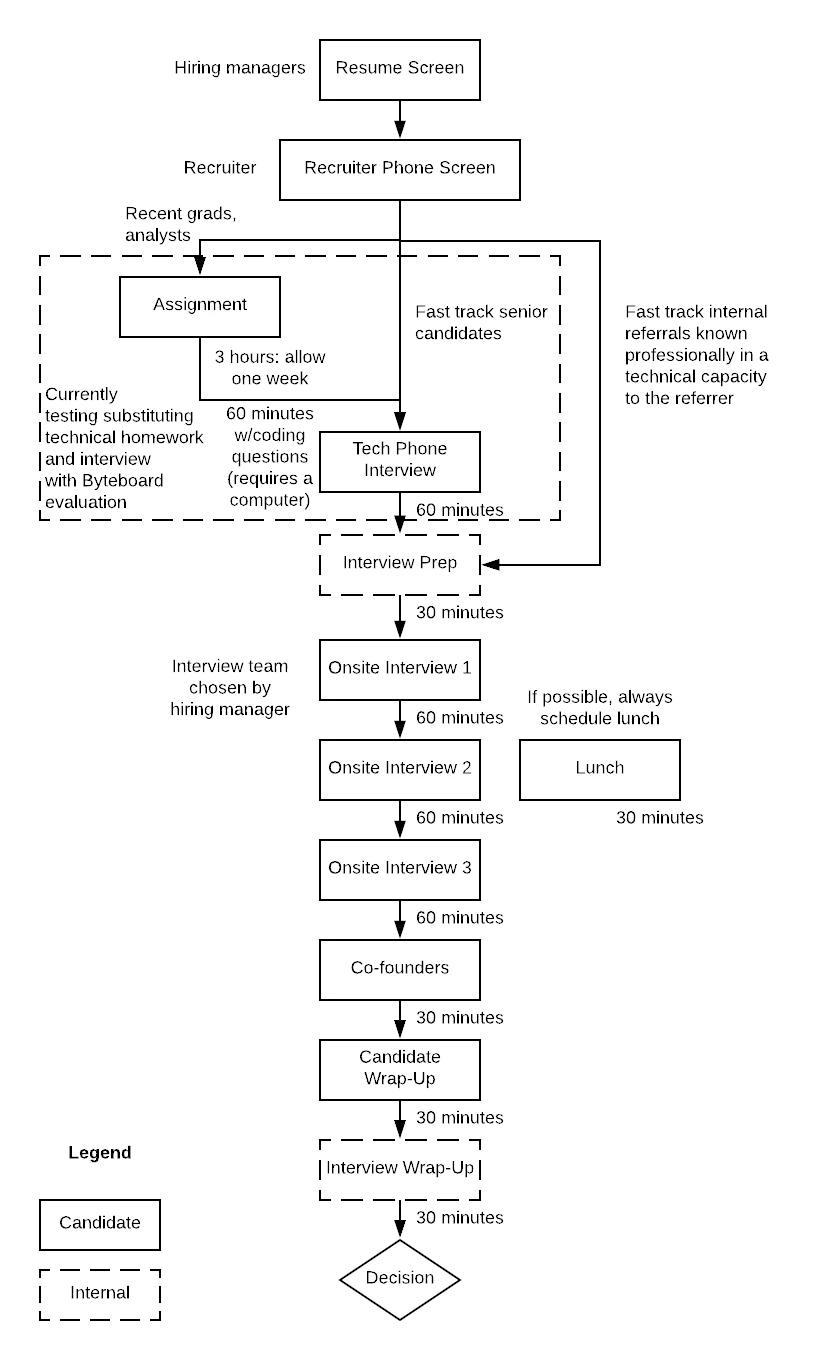
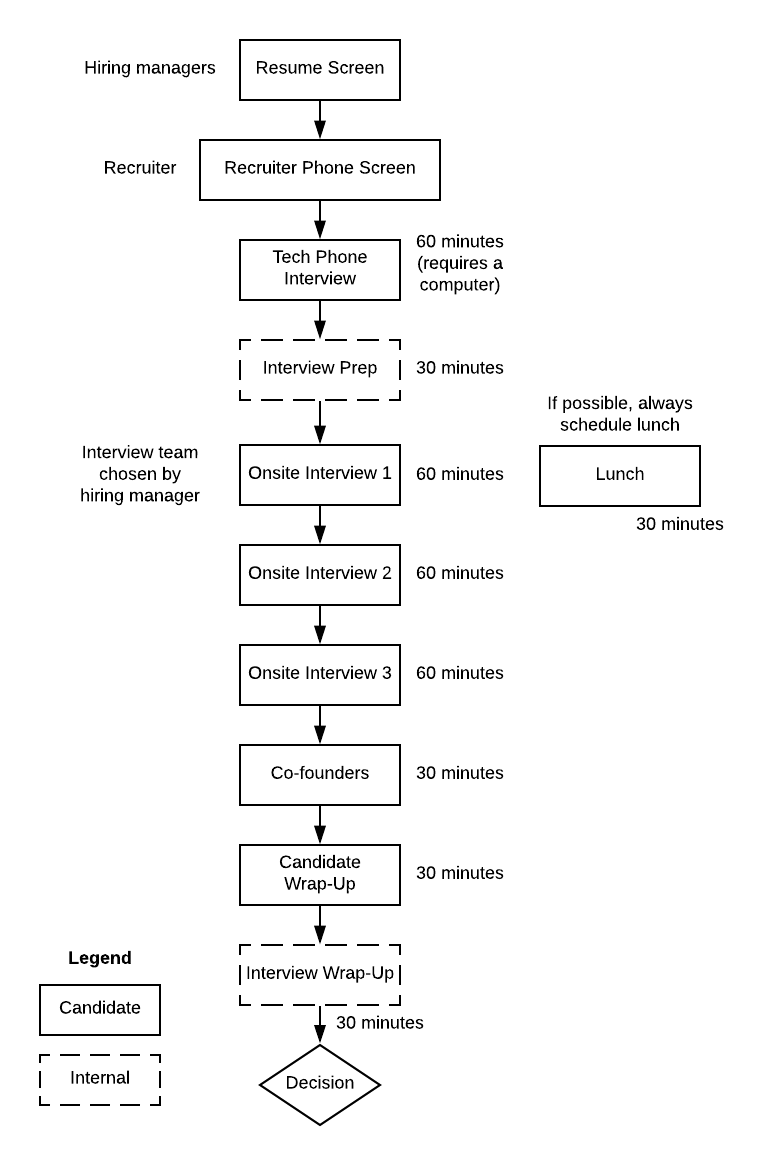
Edit hiring (#1)
* Add Shippo touch and principles to hiring process

* Update hiring diagram

diff --git a/hiring.md b/hiring.md
@@ -13,16 +13,17 @@ We have a pretty straight forward process.  We aim to make it speedy, painless (
 Here's a general outline of the process:
 
 * You've applied [here](https://goshippo.com/jobs/)!
-* Manager/Recruiter Phone Screen (30-45 mins)
-  * Chatting about experience, goals and general communications assessment.
-* Technical Phone Screen (60 mins)
-  * Screening of candidate based on technical ability.  This will also be used to determine who should be paired up with you during your onsite.
+* Manager/Recruiter Phone Screen (15-30 mins)
+  * Chatting about experience, goals and general communications assessment. We are interested in what you are looking for in your next job.
+* Technical Phone Interview (30-60 mins)
+  * Screening of candidate based on technical ability. We will also gauge your interest in various teams at Shippo.
 * Onsite (3-4 hours)
-  * Tech Interview 1, Coding & Code Review - Whiteboard Coding question focused around general coding and simple algorithm.  Preferrably real code.
-  * Tech Interview 2, System Design - Whiteboard Coding question focused around interacting with APIs and a database.  Psuedo code and perhaps SQL.
-  * Tech Interview 3, Software Design & Architecture - Whiteboard software design focused around classes, data model and architectures.
+  * Each interview has 1 or 2 primary problem solving questions and 1 or 2 questions about your technical or teamwork experience.
+  * Tech Interview 1, Software Engineering - Whiteboard coding question focused using data structures and simple algorithm.  Preferably real code.
+  * Tech Interview 2, System Design - Whiteboard design question focused around systems interaction, scalability, and error handling.
+  * Tech Interview 3, Software Design - Whiteboard software design focused on encapsulation, and data-driven application design.
   * Founder Chat - Discuss background on Shippo, core values/behavior fit
-  * Manager Wrap-up & Feedback - We want to gather feedback about how the interview went, and give us feedback about the process (what went well, what could be improved).  We'll also provide you any feedback.  We also like to know what you are looking for in the job
+  * Manager Wrap-up & Feedback - We want to gather feedback about how the interview went and about the process (what went well, what could be improved).  We'll also provide you any feedback that we may have.
 * Internal Recap
 * Decision
 
@@ -32,11 +33,11 @@ For Shippos, here is our detailed internal [Wiki](https://shippo.atlassian.net/w
 
 ### Helpful Notes
 
-We understand that on-site technical interviews can be stressful but we're looking for some specific things while conducting our interviews, they are:
+We understand that on-site technical interviews can be stressful.  Here are some of our principles that might alleviate the stress:
 
-* technical problem solving
-* situational technical problem
-* situational behavioral problem
+* The problems that we ask are real life problems that we have solved in the past.  We made simpler versions of them to fit within the alloted time. The idea is to give you a sense of what day-to-day work is like at Shippo.
+* We are not looking to evaluate your answer against a gold standard. Instead, we are looking to get to know you, e.g. how you approach problems, and how you communicate solutions.
+* Be yourself! We are trying to get to know you, and we want you to get to know us. The more natural you are, the more we can gauge whether you'll love working at Shippo.
 
 Also, take a breath and relax, we're not trying to trick you or give you ridiculous puzzle or math problems :).
 
